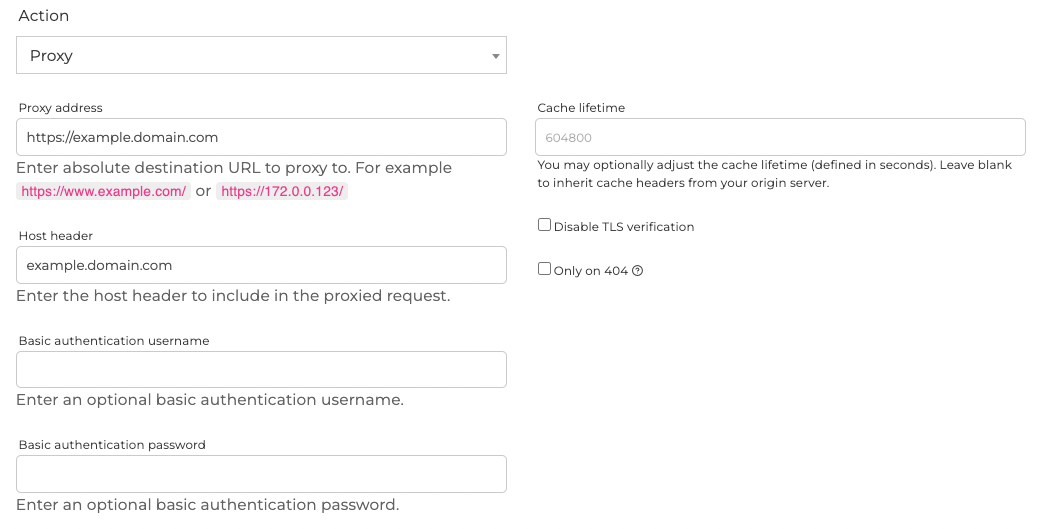
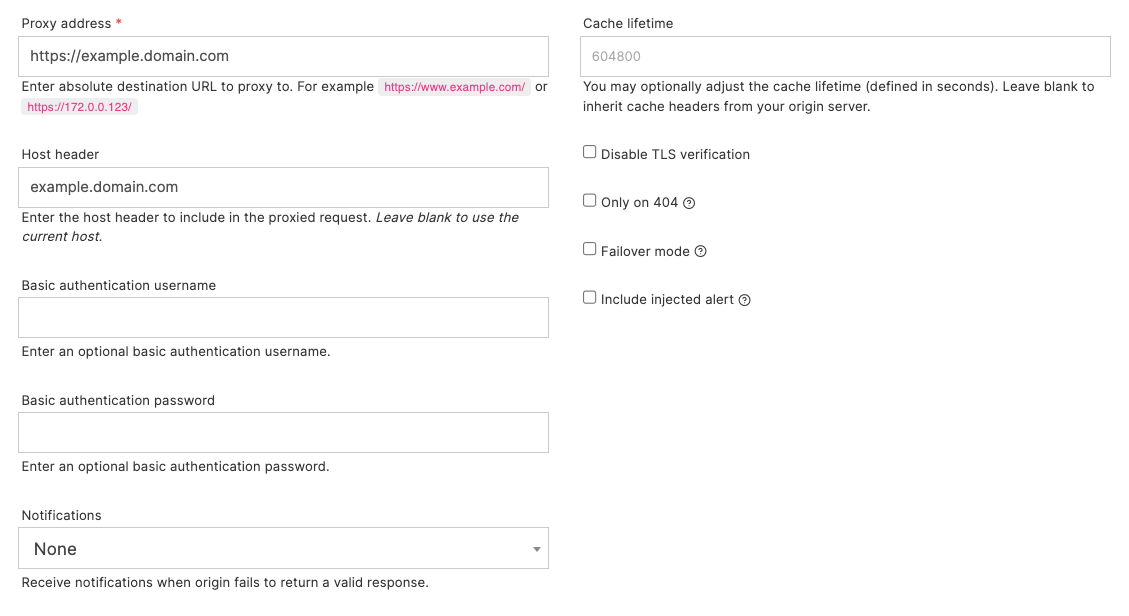
Added new page for WAF. Added new page for CDN (Proxy). Added new page for Crawler.

diff --git a/sidebars.js b/sidebars.js
@@ -25,6 +25,9 @@ module.exports = {
       'dashboard/domains',
       'dashboard/authentication',
       'dashboard/page-rules',
+      'dashboard/page-rules-proxy',
+      'dashboard/page-rules-waf',
+      'dashboard/crawler',
       'dashboard/alerts',
       'dashboard/custom-http-headers',
       'dashboard/search',

diff --git a/docs/dashboard/page-rules-waf.md b/docs/dashboard/page-rules-waf.md
@@ -1,0 +1,90 @@
+---
+id: page-rules-waf
+title: Web Application Firewall (WAF)
+sidebar_label: Web Application Firewall (WAF)
+---
+
+The Quant Web Application Firewall has full support for the latest OWASP Core Ruleset, as well as support for integrated Project Honeypot, bot protection, rate limiting, and geo controls.
+
+It may be enabled with granular controls on each domain/route configured to proxy back to your origin server.
+
+
+## Enable WAF
+
+To enable the WAF, simply tick the "Enable WAF" checkbox on any proxy configuration.
+
+Set the WAF to either **Report** or **Block** mode to either report on WAF hits or block them.
+
+Use the WAF level slider to change the level of strictness enforced by the WAF. This equates to the ModSecurity Core Ruleset "Paranoia" levels associated with each rule. The default and recommended level is 1.
+
+:::info
+When enabling the WAF it is recommended you start in **Report** mode for a period to monitor WAF hits and find and remove false positives through standard browsing behavior. Once you are satisifed you are no longer receiving false positives, move to **Block** mode.
+:::
+
+## Rules and overrides
+
+Use the "Rules and overrides" section to disable certain WAF rules, block (or allow) certain IP addresses or ranges, and block based on `User-Agent` or `Referer` headers.
+
+Use the "Always allow from IPs" to allow trusted users or networks to bypass the WAF.
+
+![Rules and overrides example](/img/waf-rules-overrides.png)
+
+## Block dictionaries
+
+Enable block dictionaries to block known bad bots, user-agents, referers and IP addresses associated with bad actors as seen across our network.
+
+**Note:** We consider these safe to enable, however keep an eye on the WAF hits to ensure you are not inadventently blocking a crawler or bot you may want to allow. These dictionaries may be overridden if you need further control, contact support for further assistance.
+
+
+## Http:BL (Project Honeypot)
+
+If you are a member of Project Honeypot and have a valid API key you may integrate directly with the Http:BL service. From the Http:BL [overview page](https://www.projecthoneypot.org/httpbl.php):
+
+> Http:BL is a system that allows website administrators to take advantage of the data generated by Project Honey Pot in order to keep suspicious and malicious web robots off their sites. Project Honey Pot tracks harvesters, comment spammers, and other suspicious visitors to websites. Http:BL makes this data available to any member of Project Honey Pot in an easy and efficient way.
+
+![Project Honeypot](/img/waf-httpbl.png)
+
+These options protect against known harvesters, bots, spammers and other malicious actors as picked up by the Project Honeypot network of spam traps.
+
+
+## Rate limiting
+
+Rate limiting options are a powerful protection against high traffic events.
+
+### IP rate limiting
+
+IP rate limiting is useful to prevent attacks or excessive traffic from individuals, bots and crawlers. Set the mode to either **Report** or **Enabled** to toggle between report and blocking modes.
+
+Next, specify a RPS (requests per second) threshold in seconds, as well as a cooldown period in seconds. The user will be receive a `429: Too Many Requests` response during the cooldown period, and this traffic will be kept away from your origin server.
+
+### Request header rate limiting
+
+You may also use rate limiting grouped by a request header. This can be used on an API service for instance to limit requests by a known group (for example, `X-API-Organization`), or any other identifier as seen in the request headers.
+
+As with IP rate limiting you may set the RPS threshold and cooldown period to control the traffic.
+
+
+## Custom 403 error pages
+
+When a request is blocked by the WAF you may wish to display a custom 403 page explaining why, and allowing them an avenue to contact you if they feel the block is a false positive.
+
+Create a new static page at the `/_quant_waf_403` route. You may wish to use the WYSIWYG or Code editors to do this, see the [Content section](./content) for more detail.
+
+:::note
+Please allow up to 30 minutes for changes to the custom 403 page to display to end users.
+:::
+
+## Log viewer
+
+The last 30 days of WAF hits are stored and can be viewed directly via the log viewer in the Quant Dashboard.
+
+Navigate to the Security & WAF > WAF Logs section to access the log viewer.
+
+You may optionally filter logs by IP address, Location, Rule type, Mode (Report vs. Block), Rule ID, Domain, and URL.
+
+![Log viewer](/img/waf-log-viewer.png)
+
+
+:::note
+Advanced log forwarding options are available. If you require logs forwarded to your own logging platform please contact your support representative.
+:::

diff --git a/docs/dashboard/page-rules-proxy.md b/docs/dashboard/page-rules-proxy.md
@@ -1,0 +1,46 @@
+---
+id: page-rules-proxy
+title: CDN Proxy
+sidebar_label: CDN Proxy
+---
+
+Proxy rules can be configured to route traffic back to your origin server(s) while maintaining a cache in our edge content delivery network.
+
+This is effectively a traditional CDN, however there are many additional options available such as static failover, header overrides, alert injection, image optimization, and web-application firewall.
+
+
+## Configuration overview
+
+![Proxy configuration](/img/rules-proxy.png)
+
+* **Proxy address**: is your backend/origin server. This may be a FQDN or IP address and should include the protocol.
+* **Host header**: should be a valid Host header to send to the origin server.
+* **Basic authentication**: provide a username and password if the origin server is protected by basic authentication.
+* **Cache lifetime**: optionally override the cache lifetime of the proxied response in Quant. Leave blank to inherit the cache headers sent by your backend server.
+* **Disable TLS verification**: may be used if the server is using a self-signed (or other invalid) certificate.
+* **Only on 404**: will serve from the Quant static edge if content exists, else proxy.
+* **Failover mode**: will serve from the Quant static offload only if the origin server shows sign of duress, or returns an unexpected response. [More detail below](#failover-mode).
+* **Include injected alert**: allows you to alter the markup response and include the [sitewide alert banner](./alerts). This can be useful to allow widespread alert messaging to be presented to end users without the need for application-level change.
+
+You may use the wildcard captures in your proxies, simply include a capture value in the proxy address. For example: a match on `/api/*` with a proxy address: `https://api.example.com/v1/$1`.
+
+
+## Failover mode
+
+![Static failover mode](/img/rules-proxy-failover.png)
+
+When failover mode is enabled Quant is configured as a static failover service. In this mode, requests will be proxied back to your origin server unless signs of distress are detected.
+
+For example, if your origin server takes more than 10 seconds to return a response, or returns an unexpected status code.
+
+In this mode you may receive notifications when a failover mode is triggered. You may also specify a failover cache lifetime, which will ensure traffic is kept away from your origin server for a defined period.
+
+## Request headers
+
+You may optionally inject extra request headers to your origin server. This is useful to provide an extra layer of security, e.g: pass a shared key back to your origin server to protect direct origin server access.
+
+![Additional header example](/img/rules-proxy-additional-header.png)
+
+You may also optionally strip response headers. This is useful to exclude certain origin headers from the response sent back to your end users. For example, this may be useful for excluding headers that contain mention of versions of software running on your origin server to improve security posture.
+
+![Strip header example](/img/rules-proxy-strip-header.png)

diff --git a/docs/dashboard/crawler.md b/docs/dashboard/crawler.md
@@ -1,0 +1,49 @@
+---
+id: crawler
+title: Crawler
+sidebar_label: Crawler
+---
+
+The crawler can create a static snapshot of an entire website, or subset via manually provided URLs. Crawled web content including all assets (images, CSS, JavaScript, documents) will all be stored in the Quant static edge.
+
+Advanced crawler configuration including headless JavaScript-enabled browsers, rules for discovering additional links, pagination clicking, and much more are available.
+
+Crawler configurations may be run on a schedule, allowing content to be kept up to date automatically.
+
+There are a variety of use cases, including:
+* Creating a static archive of a website before decommissioning
+* Keeping a fresh copy of a website for failover/disaster recovery (DR)
+* Keeping a full revision history of all website content accessible via the revisions viewer
+* Crawling a website daily and serving public traffic from the Quant static edge directly
+
+
+## Create a new crawler configuration
+
+1. Ensure you have created a new project in Quant Dashboard and have it selected as the active project.
+2. Navigate to Crawler > Configs and click the "Add" button.
+3. To create a simple crawler provide a descriptive name and the domain to crawl (e.g `https://www.quantcdn.io`).
+4. If your website requires JavaScript to render correctly you may choose the "headless browser" mode.
+5. Optionally, you may provide a list of URLs to crawl if you wish to limit the crawl to a subset of pages.
+
+## Run the crawler
+
+After creating a crawler configuration you may run it manually from the Crawl > Configs page.
+
+![Crawler table](/img/crawler-table.png)
+
+Click **Run > All URLs** to begin a new crawl of your website. You can monitor the result from the Crawl > Runs section of the Dashboard.
+
+:::note
+In order to unlock full crawler options and increase the throughput you will need to verify the domain. Follow the instructions in the "Domain verification" section to verify via either DNS record or by placing a web-accessible file in the defined location.
+:::
+
+## View the result
+
+After the crawler has completed you can view the result on the preview domain. To find your preview domain, go to the Domains section of the dashboard and click the preview domain link.
+
+The crawler should find all website pages and assets, however some content may not be possible for the crawler to find. For example, if there are pages on your website that are not linked to anywhere publicly, or available in the sitemap, then you may need to provide the URLs manually to let the crawler know about them.
+
+
+## Advanced configuration and scheduling
+
+Advanced configuration and creating schedules for crawlers are available. Contact your support representative for more information.

diff --git a/docs/dashboard/page-rules.md b/docs/dashboard/page-rules.md
@@ -47,16 +47,7 @@ The action refers to the response Quant will take if the pattern matches.
 
 A proxy will function in the same way as a traditional CDN would, making a backend request to an origin server and serving the resulting content, optionally caching the result at the edge.
 
-![Proxy configuration](/img/rules-proxy.png)
-
-* Proxy address: is your backend/origin server. This may be a FQDN or IP address and should include the protocol.
-* Host header: should be a valid Host header to send to the origin server.
-* Basic authentication: provide a username and password if the origin server is protected by basic authentication.
-* Cache lifetime: optionally override the cache lifetime of the proxied response in Quant. Leave blank to inherit cache headers.
-* Disable TLS verification: may be used if the server is using a self-signed (or other invalid) certificate.
-* Only on 404: will serve from the Quant static edge if content exists, else proxy.
-
-You may use the wildcard captures in your proxies, simply include a capture value in the proxy address. For example: a match on `/api/*` with a proxy address: `https://api.example.com/v1/$1`.
+For more detail and configuration documentation, see the [CDN Proxy page](./page-rules-proxy).
 
 ### Redirect
 

diff --git a/docs/dashboard/alerts.md b/docs/dashboard/alerts.md
@@ -1,7 +1,7 @@
 ---
 id: alerts
-title: Managing site-wide alerts
-sidebar_label: Site-wide alerts
+title: Managing site-wide alert banners
+sidebar_label: Site-wide alert banners
 ---
 
 Site-wide alerts allow you to add a site-wide banner at the top of every page.
@@ -10,4 +10,4 @@ This can be useful when using Quant as a failover solution, or for any other rea
 
 Navigate to the "Alert editor" section in the dashboard navigation. Simply enable and configure with title and message body (markup supported).
 
-Use the CSS overrides to provide additional styling as required.
+Use the CSS and JS overrides to provide additional styling and client-side functionality as required.

diff --git a/docs/custom-404.md b/docs/custom-404.md
@@ -6,6 +6,8 @@ sidebar_label: Customize 404 page
 
 Custom 404 pages are easy with Quant. Any content pushed to QuantCDN with the special `/_quant404` route will become the active 404 page.
 
+Note: The content of this page may be cached for up to 30 minutes. Please allow time for changes to display.
+
 ## WordPress
 
 1. Set the 404 page in QuantCDN settings (Settings > QuantCDN) - for example `/path/to/404-page`.
